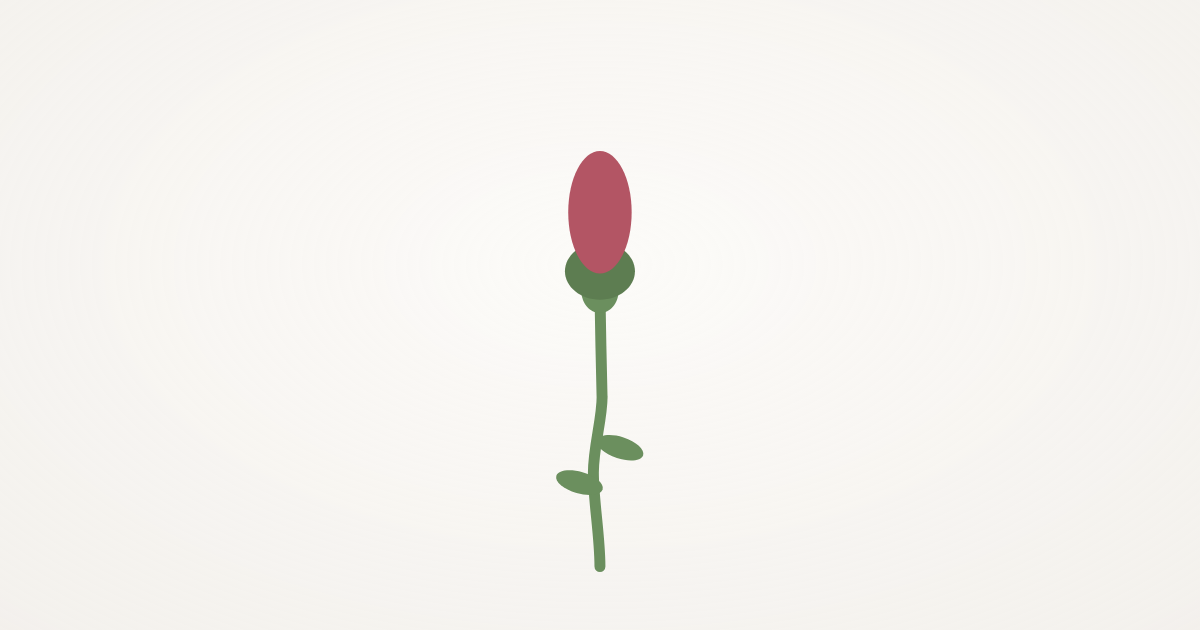
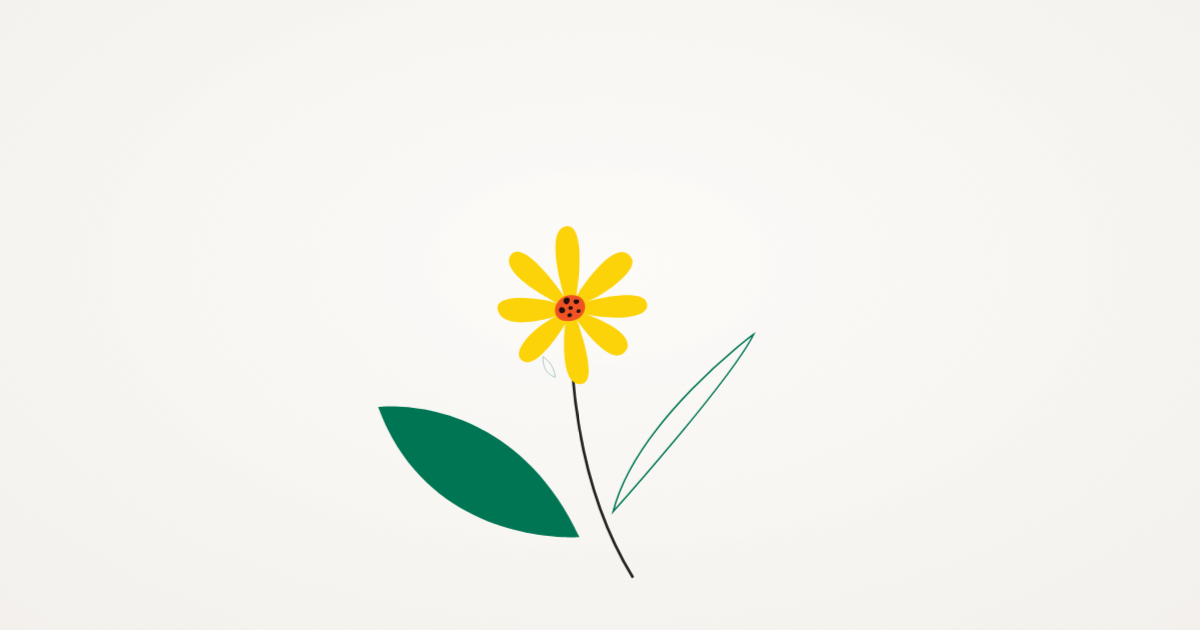
Instalar la flor de LottieFiles y acotar su tramo util
La animacion elegida crece desde una mota invisible y se queda quieta antes
del final, asi que app.js recorre solo FRAME_FROM..FRAME_TO (0.30-0.88). Sin
recortar, la pagina abria practicamente vacia y el ultimo tercio del gesto no
movia nada.

- tools/frames.html: tira de fotogramas para elegir ese tramo al cambiar de flor.
- tools/preview.html: encuadra la tarjeta sobre el mismo frame inicial.
- favicon actualizado al amarillo y verde de la nueva flor.

Changed region(s): [[0.3083, 0.2413, 0.555, 0.9048], [0.5858, 0.5429, 0.6167, 0.6032], [0.555, 0.6032, 0.5858, 0.6635]]

diff --git a/tools/frames.html b/tools/frames.html
@@ -1,0 +1,65 @@
+<!doctype html>
+<html lang="es">
+<head>
+<meta charset="utf-8">
+<title>Tira de fotogramas</title>
+<!--
+  Página auxiliar para inspeccionar el timeline de una animación Lottie.
+  NO forma parte de la página que ve Annie.
+
+  Sirve para dos cosas al cambiar la flor:
+    1. Comprobar que el timeline sea una floración/crecimiento lineal.
+    2. Elegir FRAME_FROM y FRAME_TO en app.js — muchas animaciones empiezan
+       vacías y se quedan quietas antes del final, y ese tiempo hay que
+       recortarlo o la interacción se siente muerta por los extremos.
+
+  Uso — desde la raíz del proyecto:
+    python -m http.server 8000
+    y abrir http://127.0.0.1:8000/tools/frames.html
+    Parámetros opcionales:
+      ?s=0,0.25,0.5,0.75,1     los puntos a mostrar
+      &f=../assets/otra.json   otro archivo
+-->
+<style>
+  html, body { margin: 0; background: #faf7f2; }
+  body { display: flex; flex-wrap: wrap; align-items: center; gap: 4px; padding: 12px;
+         font: 12px/1 system-ui, sans-serif; color: #8a8078; }
+  figure { margin: 0; text-align: center; }
+  .box { width: 220px; height: 220px; outline: 1px solid #e6e0d8; }
+  .box svg { display: block; width: 100%; height: 100%; }
+  figcaption { padding-top: 6px; }
+</style>
+</head>
+<body>
+<script src="../vendor/lottie.min.js"></script>
+<script>
+var q = new URLSearchParams(location.search);
+var file = q.get('f') || '../assets/flower.json';
+var stops = q.get('s') ? q.get('s').split(',').map(Number)
+                       : [0, 0.1, 0.2, 0.3, 0.5, 0.7, 0.85, 1];
+
+fetch(file).then(function (r) { return r.json(); }).then(function (data) {
+  stops.forEach(function (p) {
+    var fig = document.createElement('figure');
+    var box = document.createElement('div');
+    box.className = 'box';
+    var cap = document.createElement('figcaption');
+    cap.textContent = 'p = ' + p;
+    fig.appendChild(box); fig.appendChild(cap);
+    document.body.appendChild(fig);
+
+    var anim = lottie.loadAnimation({
+      container: box, renderer: 'svg', loop: false, autoplay: false,
+      // copia por instancia: lottie-web muta el objeto que recibe
+      animationData: JSON.parse(JSON.stringify(data)),
+      rendererSettings: { preserveAspectRatio: 'xMidYMid meet' }
+    });
+    anim.setSubframe(true);
+    anim.addEventListener('DOMLoaded', function () {
+      anim.goToAndStop(p * Math.max(0, anim.totalFrames - 1), true);
+    });
+  });
+});
+</script>
+</body>
+</html>

diff --git a/tools/preview.html b/tools/preview.html
@@ -31,8 +31,14 @@
   }
 
   /* Se dimensiona por altura y el ancho lo da la proporción real del Lottie,
-     que el script lee del JSON. Así encuadra bien cualquier flor, alta o ancha. */
-  #art { position: relative; z-index: 1; height: 560px; aspect-ratio: var(--ar, 1); }
+     que el script lee del JSON. Así encuadra bien cualquier flor, alta o ancha.
+
+     El zoom es porque en FRAME_FROM la flor ocupa una esquina pequeña del
+     lienzo: sin él la tarjeta sale casi vacía y en el chat parece rota.
+     transform-origin apunta a dónde está la flor dentro del lienzo, así que
+     AJUSTA ESTOS TRES VALORES si cambias de animación. */
+  #art { position: relative; z-index: 1; height: 560px; aspect-ratio: var(--ar, 1);
+         transform: translateY(-58px) scale(1.85); transform-origin: 53% 66%; }
   #art svg { display: block; width: 100%; height: 100%; }
 </style>
 </head>
@@ -49,7 +55,12 @@ fetch('../assets/flower.json').then(function (r) { return r.json(); }).then(func
     renderer: 'svg', loop: false, autoplay: false, animationData: data,
     rendererSettings: { preserveAspectRatio: 'xMidYMid meet' }
   });
-  anim.addEventListener('DOMLoaded', function () { anim.goToAndStop(0, true); });
+  // Mismo FRAME_FROM que app.js: la tarjeta debe mostrar el estado inicial
+  // exacto que verá Annie al abrir, ni un frame más.
+  var FRAME_FROM = 0.30;
+  anim.addEventListener('DOMLoaded', function () {
+    anim.goToAndStop(FRAME_FROM * Math.max(0, anim.totalFrames - 1), true);
+  });
 });
 </script>
 </body>

diff --git a/app.js b/app.js
@@ -8,6 +8,14 @@
 (function () {
   'use strict';
 
+  /* Tramo útil del Lottie. La animación elegida crece desde una mota
+     invisible y se queda quieta antes del final, así que recortamos por los
+     dos extremos: por debajo de FROM no hay nada que tocar, y por encima de
+     TO la flor ya no cambia y el tween gastaría tiempo en nada.
+     Al cambiar de animación, revisa estos dos números con tools/frames.html. */
+  var FRAME_FROM   = 0.30;
+  var FRAME_TO     = 0.88;
+
   var BLOOM_MS     = 2400;   // duración de la floración
   var REVEAL_AT    = 0.70;   // progreso al que entra el mensaje (solapado, no después)
   var SETTLE_MAX   = 0.014;  // amplitud del asentamiento final
@@ -73,8 +81,10 @@
     return Math.max(0, anim.totalFrames - 1);
   }
 
+  // p va de 0 a 1 y se reparte sobre el tramo útil, no sobre el timeline entero.
   function seek(p) {
-    anim.goToAndStop(p * lastFrame(), true);
+    var q = FRAME_FROM + p * (FRAME_TO - FRAME_FROM);
+    anim.goToAndStop(q * lastFrame(), true);
   }
 
   /* --- respiración del capullo -------------------------------------------- */

diff --git a/README.md b/README.md
@@ -9,13 +9,18 @@ No hay build, ni dependencias, ni npm. Son cinco archivos y se despliegan tal cu
 
 Destino: <https://juandi9585.github.io/annie>
 
-## Pendiente antes de publicar
+## El tramo útil de la animación
 
-**Cambiar la flor.** `assets/flower.json` es un marcador generado para esta
-página; la flor de verdad tiene que salir de LottieFiles. Ver más abajo.
+`app.js` **no recorre el timeline entero**, sino el tramo `FRAME_FROM` →
+`FRAME_TO` (ahora `0.30` → `0.88`).
 
-Hazlo **antes** de desplegar: al cambiarla hay que regenerar
-`assets/preview.png`, que es la imagen de la tarjeta del enlace.
+La animación actual crece desde una mota invisible y se queda quieta antes del
+final. Sin recortar, la página abriría con la pantalla prácticamente vacía —
+nada que tocar — y el último tercio del gesto no movería nada.
+
+Si cambias de animación, revisa esos dos números con `tools/frames.html`
+(instrucciones dentro). Y ajusta también el zoom de `tools/preview.html`, que
+está encuadrado a mano sobre la flor de ahora.
 
 ---
 
@@ -27,18 +32,18 @@ Hazlo **antes** de desplegar: al cambiarla hay que regenerar
    [rose-flower](https://lottiefiles.com/free-animations/rose-flower)
 
 2. **No sirve cualquier flor.** La interacción recorre el timeline a mano, así que
-   la animación tiene que ser una floración lineal: frame 0 cerrado, último frame
-   abierto. Compruébalo arrastrando el scrubber del preview en LottieFiles — si al
-   arrastrar de izquierda a derecha la flor se abre, sirve. Si gira en bucle,
-   rebota, o ya empieza abierta, no.
+   tiene que ser una progresión lineal de menos a más. Compruébalo arrastrando el
+   scrubber del preview en LottieFiles: si al arrastrar de izquierda a derecha la
+   flor se abre o crece, sirve. Si gira en bucle o rebota, no.
 
 3. Descarga en **Lottie JSON** (no `.lottie`, no GIF) y guárdalo como
    `assets/flower.json`.
 
-4. Regenera la imagen del preview (ver abajo) y rellena `CREDITS.md`.
+4. Abre `tools/frames.html` y elige `FRAME_FROM` / `FRAME_TO` en `app.js`. Casi
+   ninguna animación aprovecha su timeline entero: suelen empezar en vacío y
+   terminar quietas.
 
-Si la animación tiene una cola de "idle" al final, no hace falta descartarla: se
-puede acotar el rango en `app.js`, en la función `seek()`.
+5. Regenera `assets/preview.png` (ver abajo) y rellena `CREDITS.md`.
 
 ## Cambiar el mensaje
 

diff --git a/CREDITS.md b/CREDITS.md
@@ -2,16 +2,16 @@
 
 ## Animación de la flor — `assets/flower.json`
 
-> **PENDIENTE DE SUSTITUIR.** Ahora mismo contiene una floración de marcador
-> generada para esta página. Sirve para probar la interacción, pero la flor
-> definitiva debe venir de LottieFiles.
->
-> Al reemplazarla, rellena estos campos y borra este aviso:
->
-> - **Título:** …
-> - **Autor/a:** …
-> - **URL:** …
-> - **Licencia:** Lottie Simple License (FL 9.13.21)
+- **Título del archivo:** "Flower growing Lottie JSON animation2"
+- **Origen:** LottieFiles, sección de animaciones gratuitas
+- **Autor/a:** *pendiente* — anotar aquí el nombre que aparece en la página de
+  la animación
+- **URL:** *pendiente* — el enlace de la animación en lottiefiles.com
+- **Licencia:** Lottie Simple License (FL 9.13.21)
+- **Formato:** 1000×1000, 30 fps, 60 frames, sin imágenes externas embebidas
+
+La página usa el tramo `0.30`–`0.88` de su timeline, no la animación completa
+(ver README).
 
 Las animaciones gratuitas de LottieFiles se publican bajo la
 [Lottie Simple License (FL 9.13.21)](https://lottiefiles.com/page/license), que
